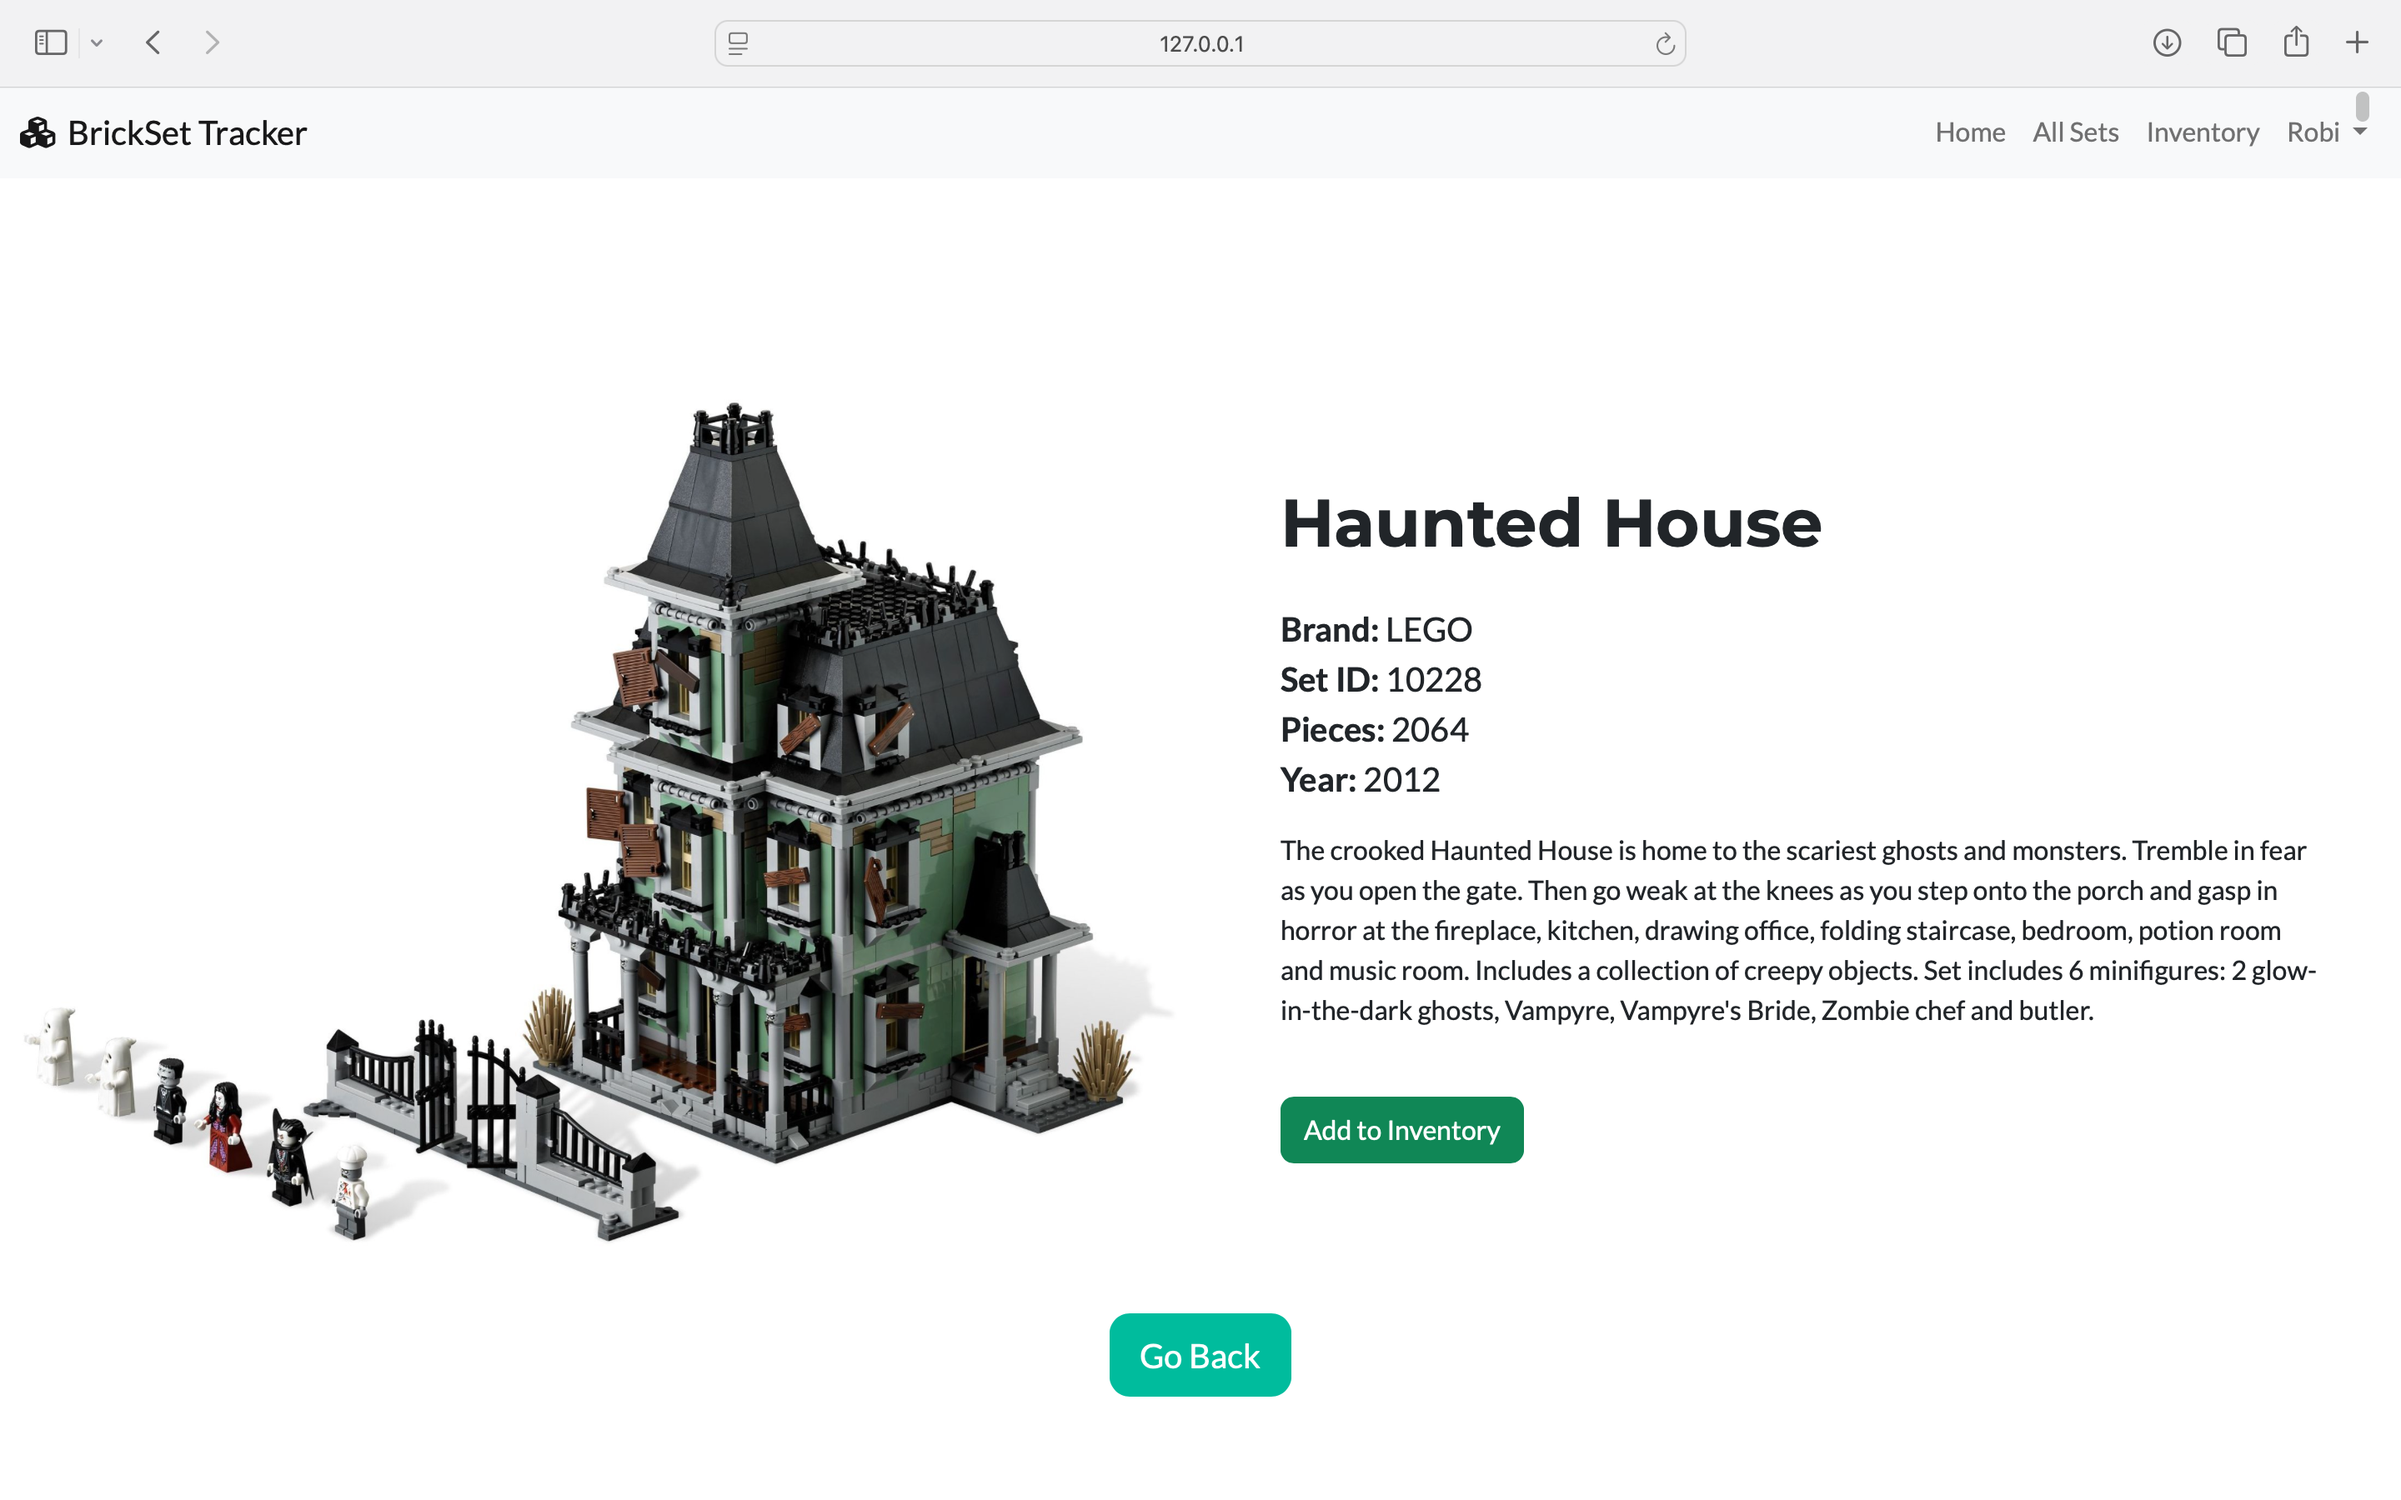
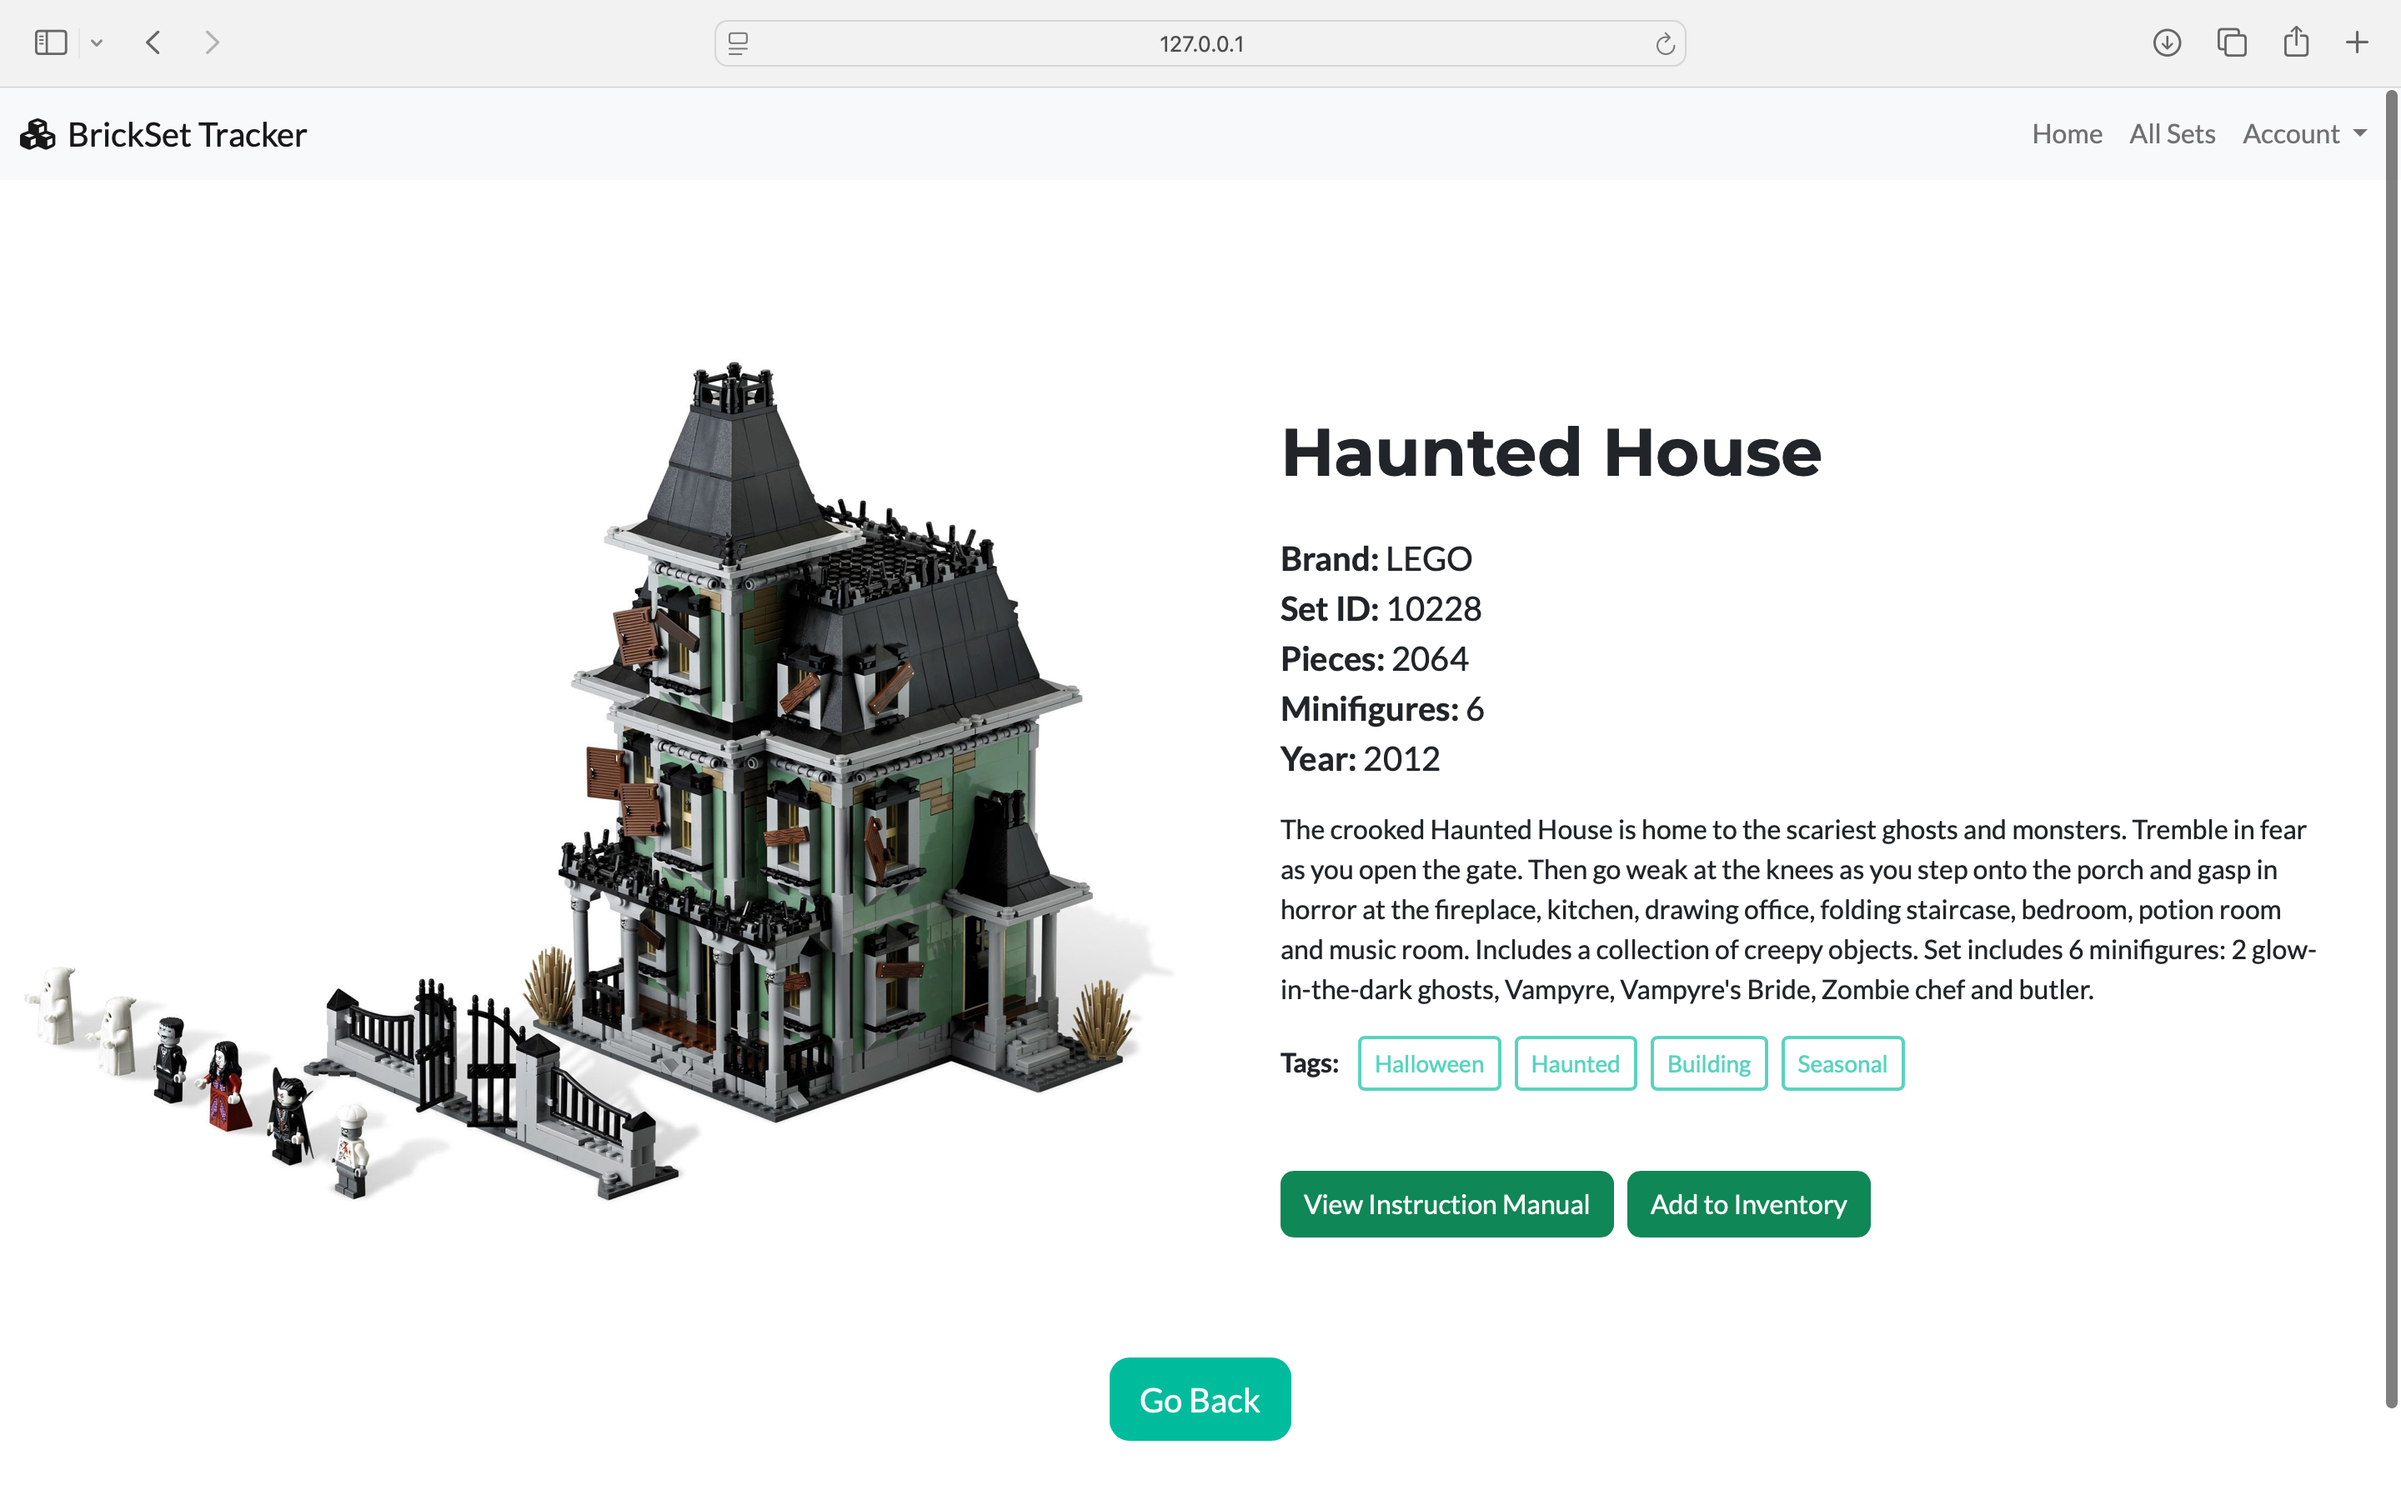
Updated README & sample.db

diff --git a/README.md b/README.md
@@ -73,9 +73,10 @@ If no SQLALCHEMY_DATABASE_URI is provided, the app will automatically use a loca
     ```
 
 ## To Do
-- Implement additional features for set details
+- Add searching by tags
 - Add proper input validation and visible error messages for forms
 - Redesign editor page
+- Create editor page for adding tags
 - Replace Flask-Login with JWT
 - Create a standalone frontend
 
